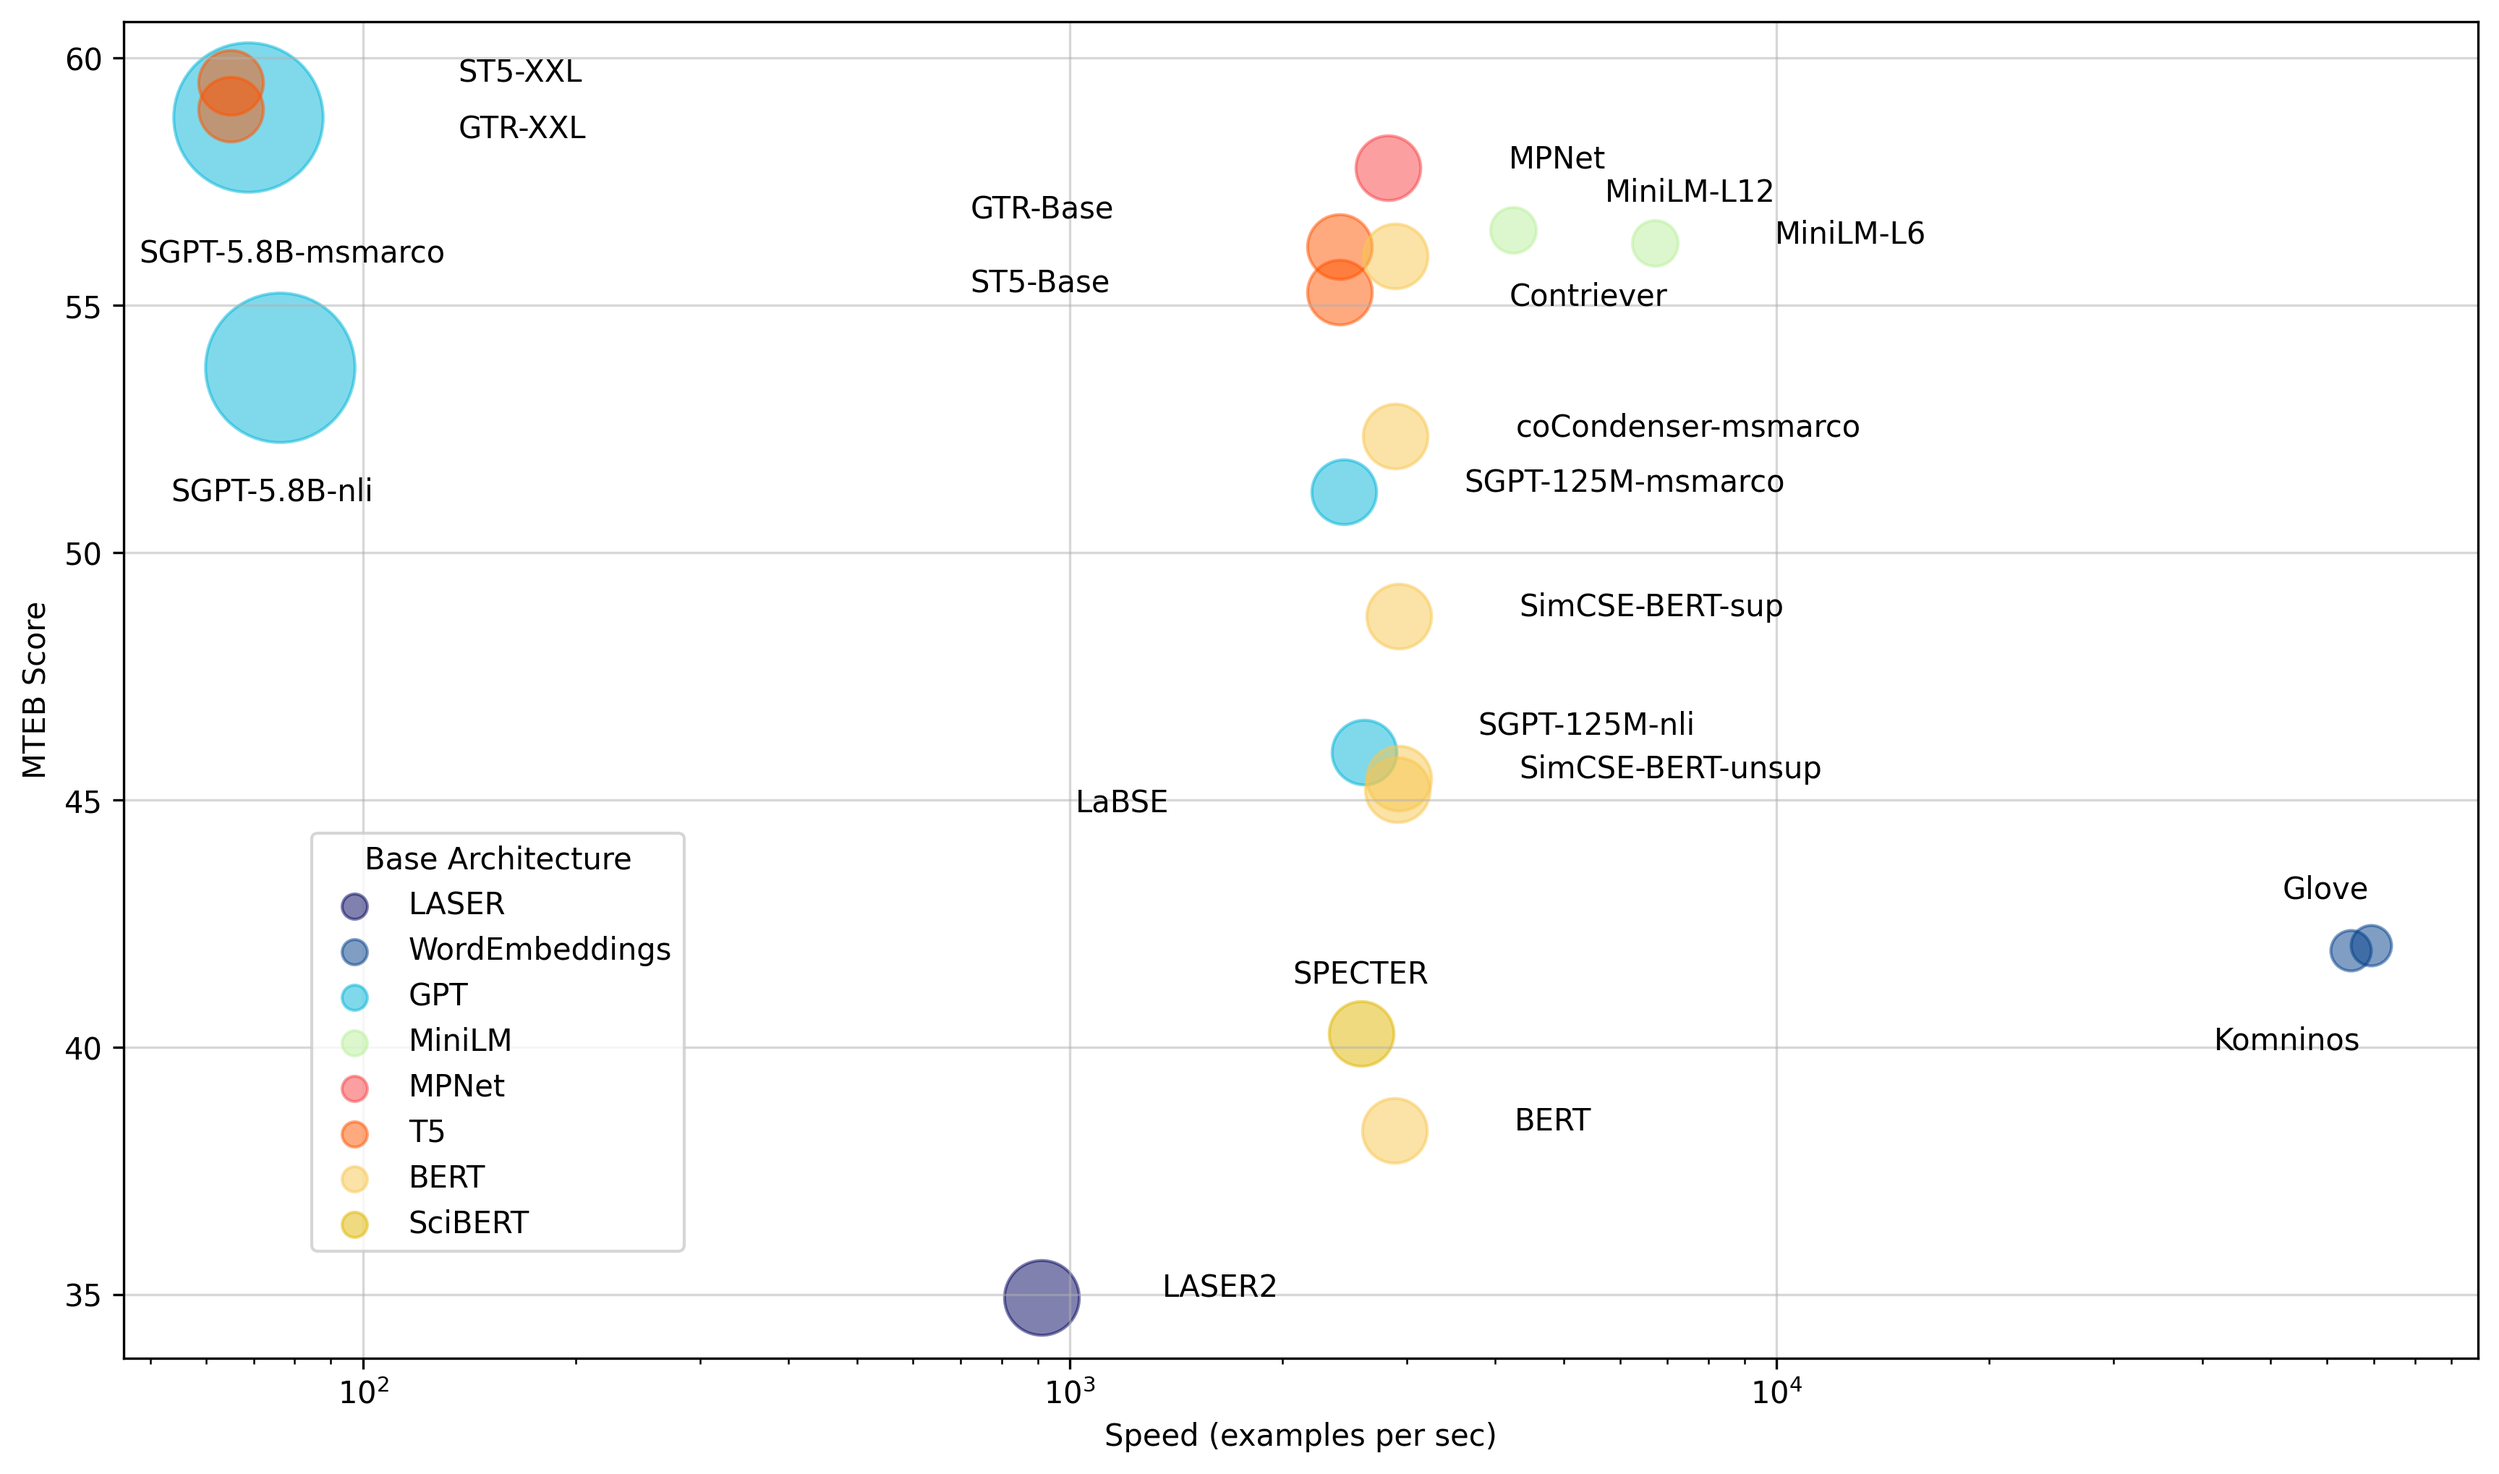
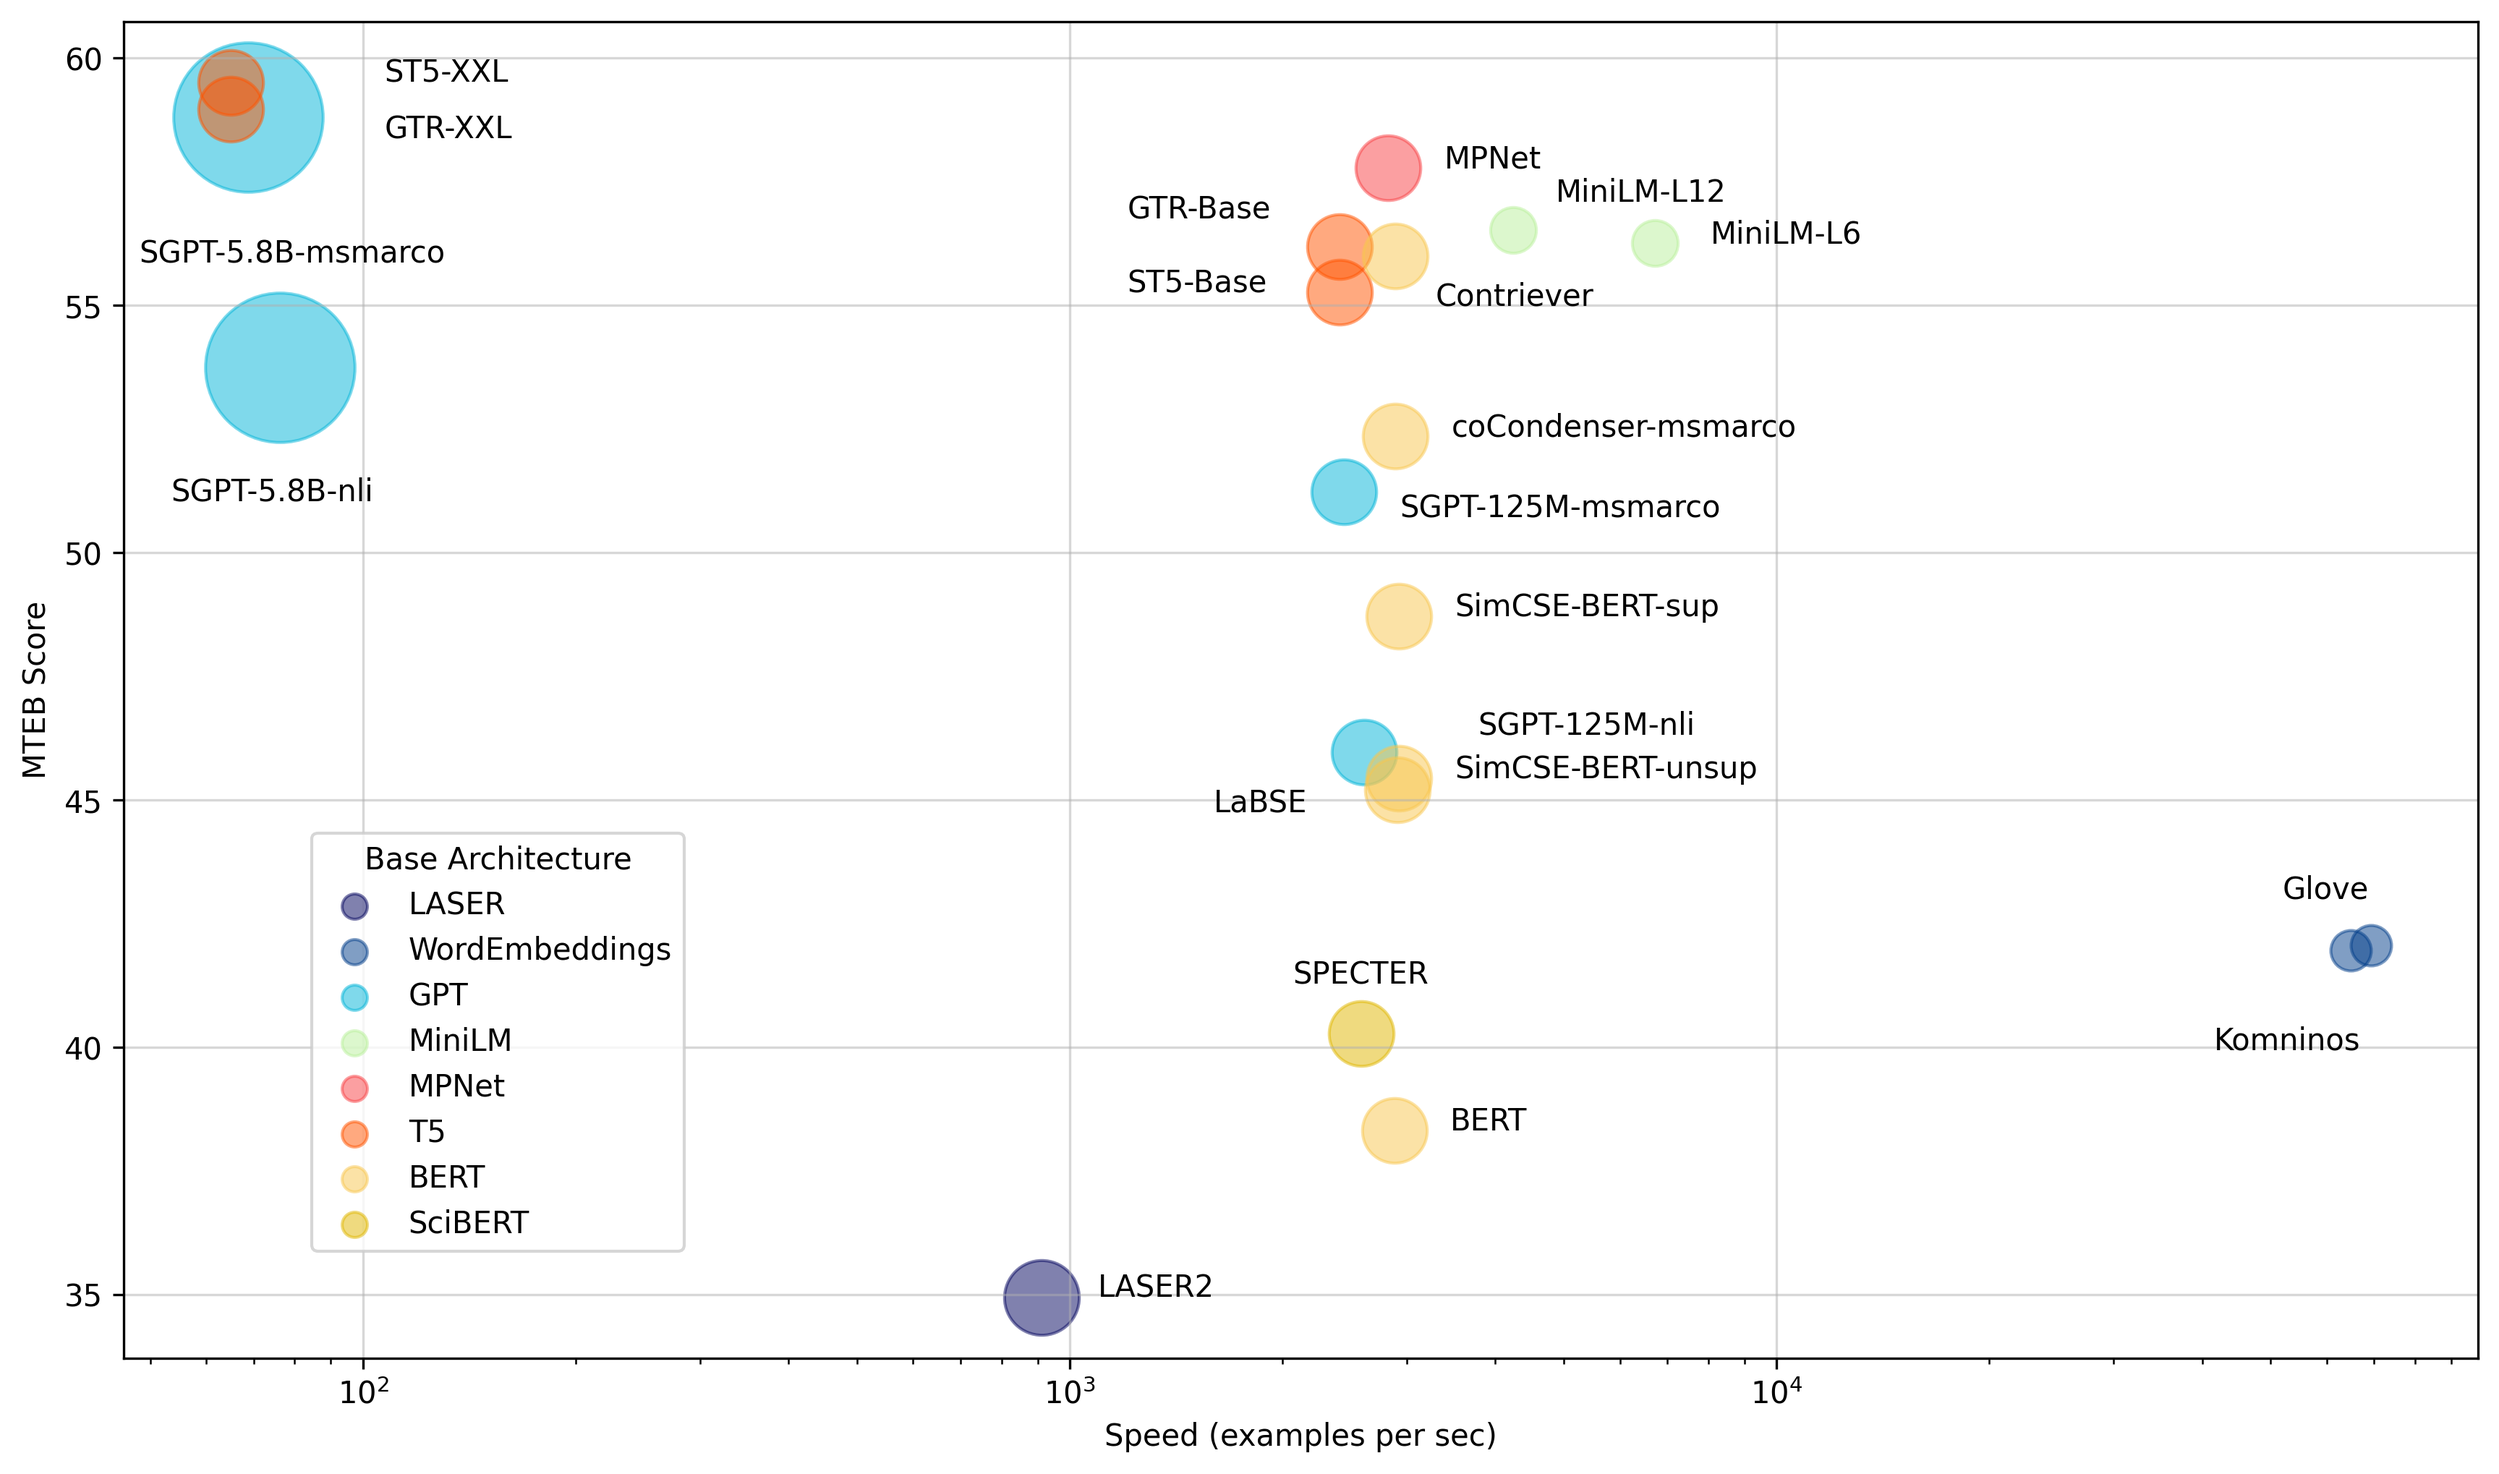
Remove old

diff --git a/plotstables/benchmark_to_plot.py b/plotstables/benchmark_to_plot.py
@@ -279,18 +279,18 @@ for k, v in gpu_bench.items():
     # Empirical offsets
     x_offset = y_offset = 0
     if model_name in ("ST5-Base"):
-        x_offset = 0.7 * speed
+        x_offset = 0.5 * speed
     elif model_name in ("GTR-Base"):
-        x_offset = 0.7 * speed
+        x_offset = 0.5 * speed
         y_offset = -0.01 * score
     elif model_name in ("Contriever"):
-        x_offset = -0.45 * speed
+        x_offset = -0.14 * speed
         y_offset = 0.018 * score
     elif model_name in ("LaBSE"):
-        x_offset = 0.65 * speed
+        x_offset = 0.45 * speed
         y_offset = 0.01 * score
     elif model_name in ("GTR-XXL", "ST5-XXL"):
-        x_offset = -1.1 * speed
+        x_offset = -0.65 * speed
         if model_name == "GTR-XXL":
             y_offset = 0.01 * score
     elif model_name == "Komninos":
@@ -305,11 +305,14 @@ for k, v in gpu_bench.items():
     elif model_name.startswith("SGPT-125M-nli"):
         x_offset = -0.45 * speed
         y_offset = -0.008 * score
+    elif model_name.startswith("SGPT-125M-msmarco"):
+        x_offset = -0.2 * speed
+        y_offset = 0.01 * score
     elif model_name.startswith("MiniLM-L12"):
         y_offset = -0.01 * score
-        x_offset = -0.35 * speed
+        x_offset = -0.15 * speed
     elif model_arch in ("BERT", "MiniLM", "MPNet", "LASER") or model_name.startswith("SGPT-125M"):
-        x_offset = -0.48 * speed
+        x_offset = -0.2 * speed
     
     ax.text(
         speed - x_offset,
